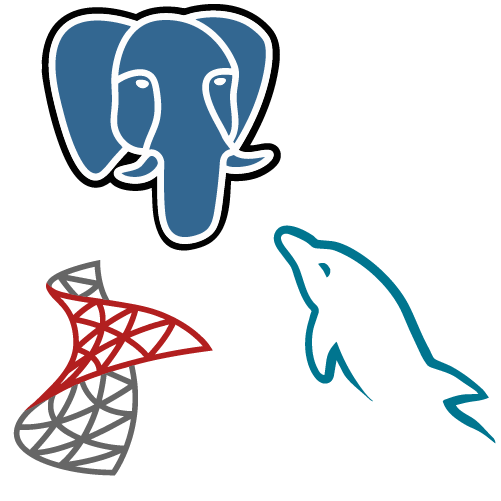
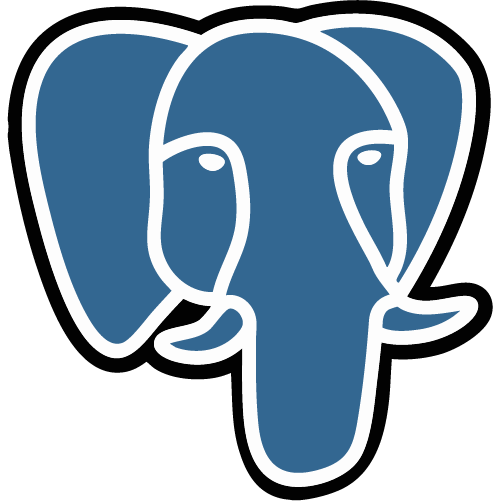
feat: adjust skill badges

diff --git a/src/app/about-me/Skills/Skills.tsx b/src/app/about-me/Skills/Skills.tsx
@@ -10,7 +10,15 @@ export const Skills = () => {
         <SkillBadge label="TypeScript" imgSrc="/skills/TypeScript.png" />
         <SkillBadge label="React" imgSrc="/skills/React.png" />
         <SkillBadge label="C++" imgSrc="/skills/Cpp.png" />
+        <SkillBadge label="iOS" imgSrc="/skills/iOS.png" imgAlt="Apple Logo" />
+        <SkillBadge label="Android" imgSrc="/skills/Android.png" />
         <SkillBadge label="Docker" imgSrc="/skills/Docker.png" />
+        <SkillBadge
+          label="SQL Databases"
+          imgSrc="/skills/SQL.png"
+          imgAlt="PostgreSQL Logo"
+        />
+        <SkillBadge label="Figma" imgSrc="/skills/Figma.png" />
         <SkillBadge label="Amazon Web Services" imgSrc="/skills/AWS.png" />
         <SkillBadge
           label="CFA Charterholder"
@@ -21,12 +29,6 @@ export const Skills = () => {
           label="Advanced Excel"
           imgSrc="/skills/Excel.png"
           imgAlt="Excel Logo"
-        />
-        <SkillBadge label="Figma" imgSrc="/skills/Figma.png" />
-        <SkillBadge
-          label="SQL Databases"
-          imgSrc="/skills/SQL.png"
-          imgAlt="Logos of PostgreSQL, MySQL, and Microsoft SQL Server"
         />
       </div>
     </section>

diff --git a/src/app/about-me/Skills/skills.module.css b/src/app/about-me/Skills/skills.module.css
@@ -6,3 +6,9 @@
   display: flex;
   flex-wrap: wrap;
 }
+
+@media screen and (max-width: 1000px) {
+  .badgeGallery {
+    justify-content: center;
+  }
+}
